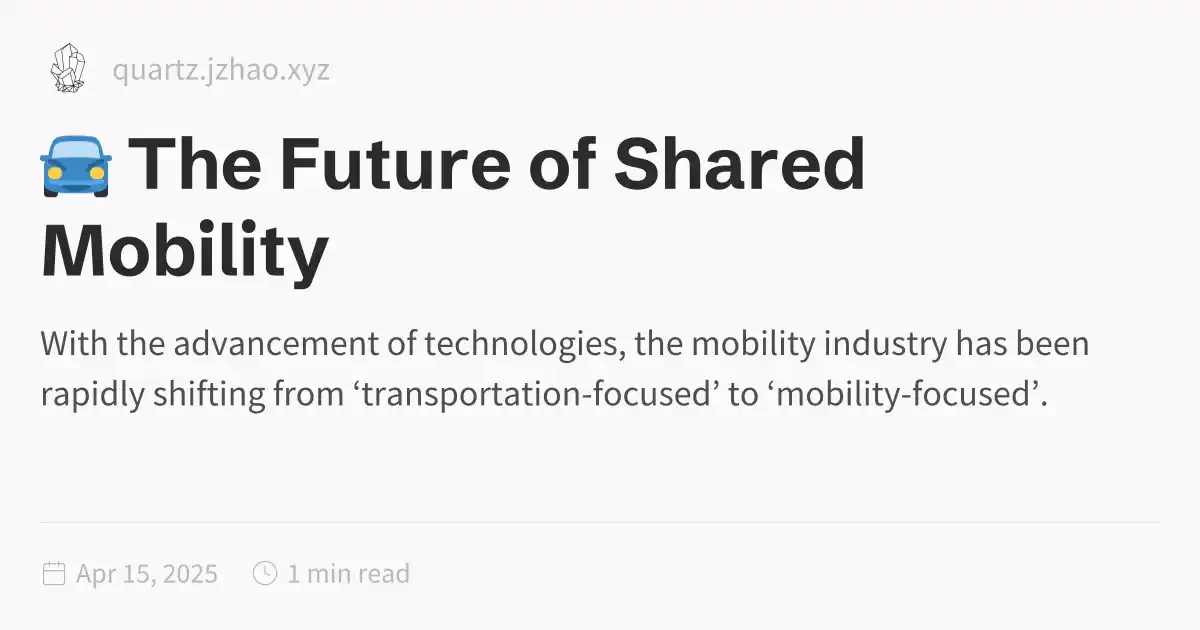
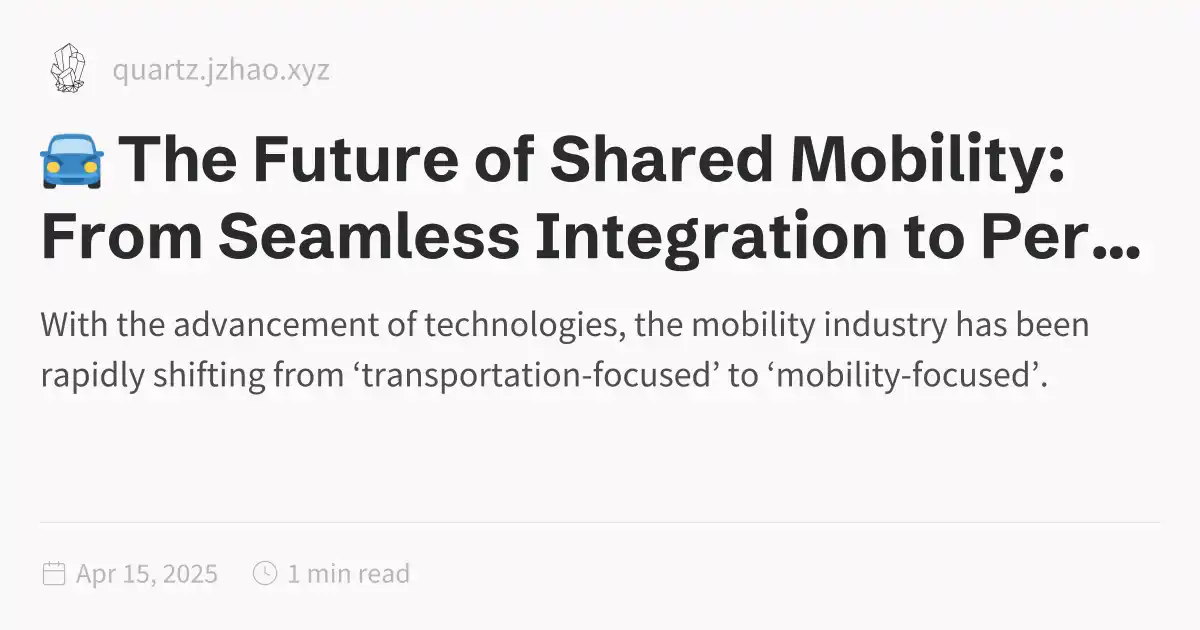
build: update index.md

Changed region(s): [[0.0308, 0.2111, 0.9558, 0.4524], [0.0308, 0.4825, 0.925, 0.6635]]

diff --git a/index.html b/index.html
@@ -1,5 +1,5 @@
 <!DOCTYPE html>
-<html lang="en"><head><title>🚘 The Future of Shared Mobility</title><meta charset="utf-8"/><link rel="preconnect" href="https://fonts.googleapis.com"/><link rel="preconnect" href="https://fonts.gstatic.com"/><link rel="stylesheet" href="https://fonts.googleapis.com/css2?family=Schibsted Grotesk:wght@400;700&amp;family=Source Sans Pro:ital,wght@0,400;0,600;1,400;1,600&amp;family=IBM Plex Mono:wght@400;600&amp;display=swap"/><link rel="preconnect" href="https://cdnjs.cloudflare.com" crossorigin="anonymous"/><meta name="viewport" content="width=device-width, initial-scale=1.0"/><meta name="og:site_name" content="Zoy.Jihyun Master Thesis"/><meta property="og:title" content="🚘 The Future of Shared Mobility"/><meta property="og:type" content="website"/><meta name="twitter:card" content="summary_large_image"/><meta name="twitter:title" content="🚘 The Future of Shared Mobility"/><meta name="twitter:description" content="With the advancement of technologies, the mobility industry has been rapidly shifting from ‘transportation-focused’ to ‘mobility-focused’."/><meta property="og:description" content="With the advancement of technologies, the mobility industry has been rapidly shifting from ‘transportation-focused’ to ‘mobility-focused’."/><meta property="og:image:alt" content="With the advancement of technologies, the mobility industry has been rapidly shifting from ‘transportation-focused’ to ‘mobility-focused’."/><meta property="twitter:domain" content="quartz.jzhao.xyz"/><meta property="og:url" content="https://quartz.jzhao.xyz/index"/><meta property="twitter:url" content="https://quartz.jzhao.xyz/index"/><link rel="icon" href="./static/icon.png"/><meta name="description" content="With the advancement of technologies, the mobility industry has been rapidly shifting from ‘transportation-focused’ to ‘mobility-focused’."/><meta name="generator" content="Quartz"/><link href="./index.css" rel="stylesheet" type="text/css" spa-preserve/><style>.expand-button {
+<html lang="en"><head><title>🚘 The Future of Shared Mobility: From Seamless Integration to Personalized Experiences</title><meta charset="utf-8"/><link rel="preconnect" href="https://fonts.googleapis.com"/><link rel="preconnect" href="https://fonts.gstatic.com"/><link rel="stylesheet" href="https://fonts.googleapis.com/css2?family=Schibsted Grotesk:wght@400;700&amp;family=Source Sans Pro:ital,wght@0,400;0,600;1,400;1,600&amp;family=IBM Plex Mono:wght@400;600&amp;display=swap"/><link rel="preconnect" href="https://cdnjs.cloudflare.com" crossorigin="anonymous"/><meta name="viewport" content="width=device-width, initial-scale=1.0"/><meta name="og:site_name" content="Zoy.Jihyun Master Thesis"/><meta property="og:title" content="🚘 The Future of Shared Mobility: From Seamless Integration to Personalized Experiences"/><meta property="og:type" content="website"/><meta name="twitter:card" content="summary_large_image"/><meta name="twitter:title" content="🚘 The Future of Shared Mobility: From Seamless Integration to Personalized Experiences"/><meta name="twitter:description" content="With the advancement of technologies, the mobility industry has been rapidly shifting from ‘transportation-focused’ to ‘mobility-focused’."/><meta property="og:description" content="With the advancement of technologies, the mobility industry has been rapidly shifting from ‘transportation-focused’ to ‘mobility-focused’."/><meta property="og:image:alt" content="With the advancement of technologies, the mobility industry has been rapidly shifting from ‘transportation-focused’ to ‘mobility-focused’."/><meta property="twitter:domain" content="quartz.jzhao.xyz"/><meta property="og:url" content="https://quartz.jzhao.xyz/index"/><meta property="twitter:url" content="https://quartz.jzhao.xyz/index"/><link rel="icon" href="./static/icon.png"/><meta name="description" content="With the advancement of technologies, the mobility industry has been rapidly shifting from ‘transportation-focused’ to ‘mobility-focused’."/><meta name="generator" content="Quartz"/><link href="./index.css" rel="stylesheet" type="text/css" spa-preserve/><style>.expand-button {
   position: absolute;
   display: flex;
   float: right;
@@ -116,7 +116,7 @@ pre:hover > .expand-button {
   padding: 0 12px;
   font-size: 14px;
 }
[2 lines of base64/hex data omitted]
 <p>Aligned with this shift, this project will explore potential future scenarios in mobility to envision new possibilities. These are the key aspects I aim to research and design:</p>
 <ul>
 <li>How shared mobility can <strong>seamlessly integrate into our daily lives</strong>.</li>